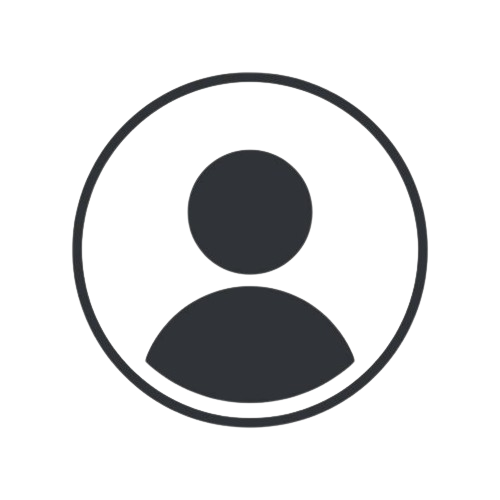
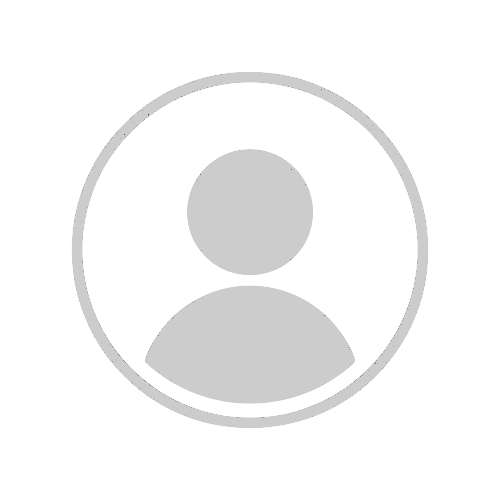
ضبط الوان صفحه
البروفايل

Changed region(s): [[0.12, 0.12, 0.87, 0.87]]

diff --git a/Shared/Css/Dashboard/MyProfile.css b/Shared/Css/Dashboard/MyProfile.css
@@ -3,8 +3,8 @@
     /* Shared */
     --Heading: #fff;
     --Sub-Text: #999999;
-    /* Nav bar */
     --Secondary: #3572cc;
+    /* Nav bar */ 
     --Nav-Background: #262626;
     --Footer-Background: #000;
     --Icon-Hover: #333333;
@@ -60,13 +60,15 @@ body {
 .profile-item {
     padding: 20px;
     border-radius: 10px;
-    background-color: var(--Body-Background);
+    background-color: var(--Items);
     box-shadow: 0 2px 5px var(--shadow-color);
     transition: transform 0.3s ease, box-shadow 0.3s ease;
     display: flex;
     flex-direction: column;
 }
-
+.profile-item:hover {
+    background-color: var(--Hover);
+}
 .profile-picture img {
     width: 150px;
     border-radius: 50%;
@@ -86,11 +88,10 @@ body {
 }
 /* Smaller Change Button CSS */
 .change {
-    background: var(--secondary-color);
-    border: 1px solid var(--secondary-color);
+    background: var(--Secondary);
     border-radius: 5px;
     padding: 4px 0px;
-    color: var(--Body-Background);
+    color: var(--Heading);
     cursor: pointer;
     display: inline-block;
     font-size: 0.8em;
@@ -102,7 +103,7 @@ body {
 }
 
 .change:hover {
-    background-color: var(--Submit-Button-Background);
+    background-color: var(--Hover);
     box-shadow: 0 2px 5px var(--shadow-color);
     transition: 0.3s;
     transform: translateY(-2px);
@@ -120,21 +121,7 @@ body {
     width: 300px;
     outline: none;
     margin-bottom: 40px;
-    color: var(--contact-icon);
-}
-
-.profile-item.profile-info input[type="text"]:focus,
-.profile-item.profile-info input[type="email"]:focus,
-.profile-item.profile-info input[type="tel"]:focus,
-.profile-info select:focus {
-    border-bottom: 2px solid var(--secondary-color);
-}
-
-.profile-item.profile-info h2 input {
-    margin-top: 0;
-    font-size: 18px;
-    color: var(--secondary-color);
-    font-weight: bold;
+    color: var(--Sub-Text);
 }
 
 .profile-item.profile-info p {
@@ -144,7 +131,7 @@ body {
 .profile-item.profile-info {
     padding: 20px;
     border-radius: 10px;
-    background-color: var(--Body-Background);
+    background-color: var(--Items);
     box-shadow: 0 2px 5px var(--shadow-color);
     transition: transform 0.3s ease, box-shadow 0.3s ease;
     display: inline-block;
@@ -156,17 +143,18 @@ body {
 }
 
 .profile-info label {
+    color: var(--Heading);
     display: block;
     margin-bottom: 20px;
     margin-right: 10px;
     font-weight: bold;
 }
 .submit-button {
-    background: var(--Submit-Button-Background);
-    border: 1px solid var(--secondary-color);
+    background: var(--Secondary);
+    border: 1px solid var(--Secondary);
     border-radius: 5px;
     padding: 10px 20px;
-    color: var(--Body-Background);
+    color: var(--Heading);
     cursor: pointer;
     margin-top: 20px;
     max-width: 20%;
@@ -177,11 +165,11 @@ body {
 }
 
 .submit-button:hover {
-    background-color: var(--secondary-color);
+    background-color: var(--Hover);
     box-shadow: 0 4px 10px var(--shadow-color);
     transform: translateY(-5px);
     transition: 0.3s;
-    color: var(--Body-Background);
+    border: 1px solid var(--Hover);
 }
 
 .submit-button:focus {
@@ -189,9 +177,12 @@ body {
 }
 
 .profile-item.profile-picture label:hover i {
-    color: var(--Footer-Bacground);
     transform: scale(1.1);
+    cursor: pointer;
     transition: 0.3s;
+}
+.Icons{
+    color: var(--Icons);
 }
 
 @media only screen and (max-width: 751px) {
@@ -200,14 +191,12 @@ body {
 .profile-item.profile-info input[type="tel"],
 .profile-info select {
     border: none;
-    background-color: transparent;
     font-size: inherit;
     padding: 0;
     margin: 0;
     width: 200px;
     outline: none;
     margin-bottom: 40px;
-    color: var(--contact-icon);
 }
 }
 

diff --git a/Shared/Css/SwitchMode/DarkDash.css b/Shared/Css/SwitchMode/DarkDash.css
@@ -3,8 +3,8 @@
     /* Shared */
     --Heading: #fff;
     --Sub-Text: #999999;
-    /* Nav bar */
     --Secondary: #3572cc;
+    /* Nav bar */ 
     --Nav-Background: #262626;
     --Footer-Background: #000;
     --Icon-Hover: #333333;
